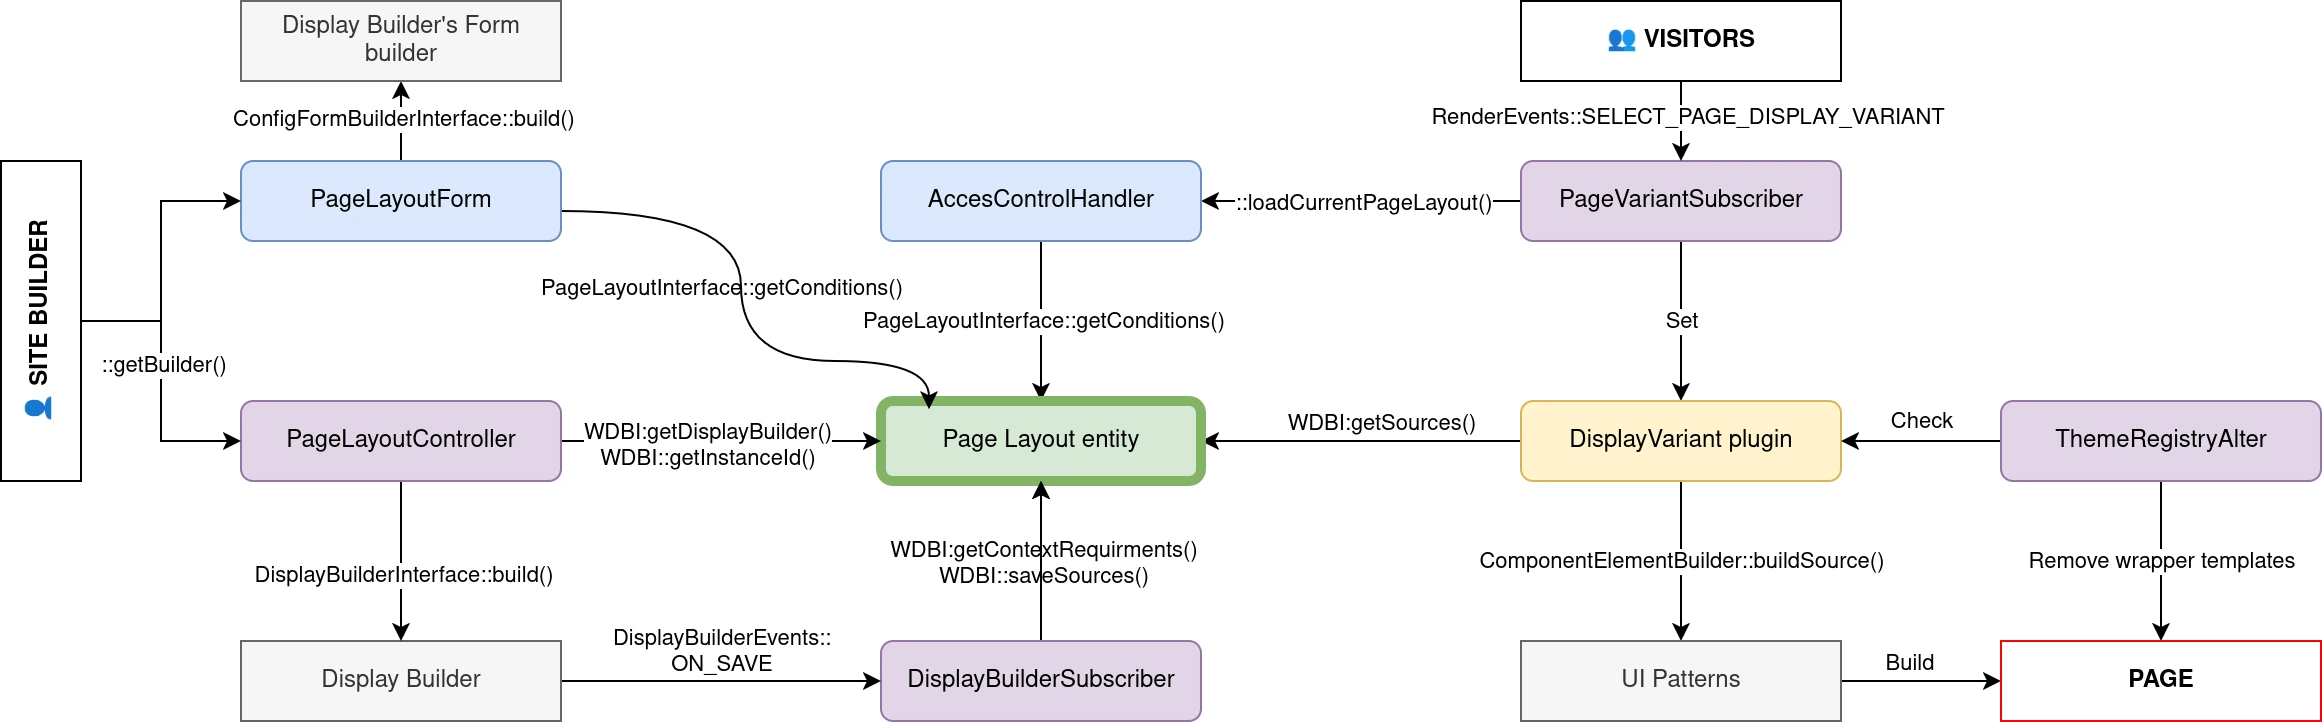
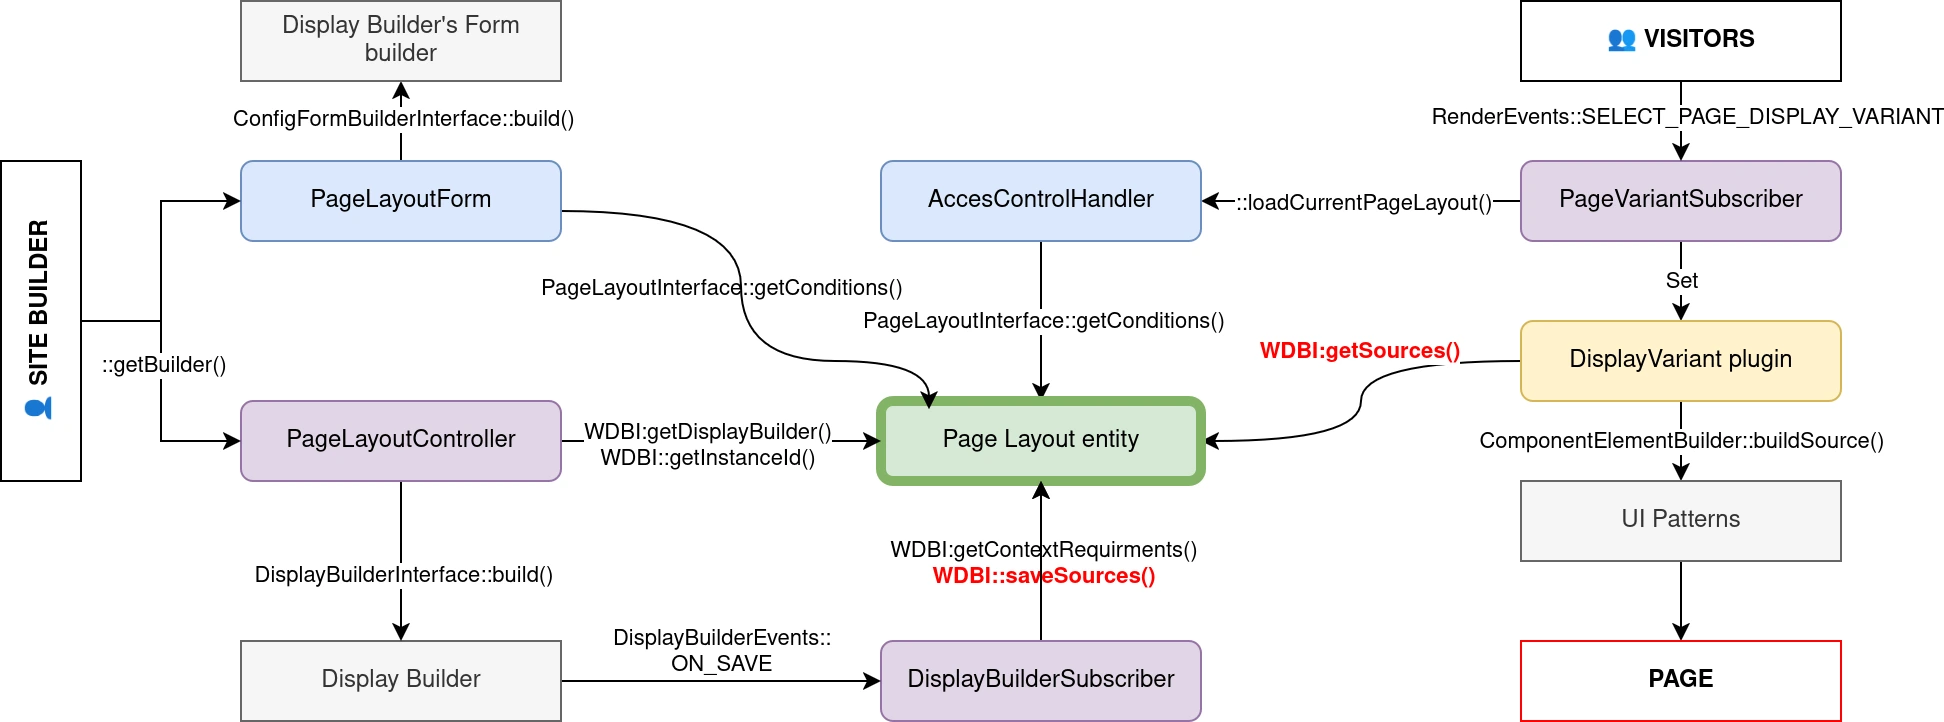
Issue #3538186 by pdureau: ThemeRegistryAlter must fallback on default templates

diff --git a/modules/display_builder_page_layout/src/Plugin/DisplayVariant/DisplayBuilderPageVariant.php b/modules/display_builder_page_layout/src/Plugin/DisplayVariant/DisplayBuilderPageVariant.php
@@ -9,8 +9,10 @@ use Drupal\Core\Display\Attribute\PageDisplayVariant;
 use Drupal\Core\Display\PageVariantInterface;
 use Drupal\Core\Display\VariantBase;
 use Drupal\Core\Entity\EntityTypeManagerInterface;
+use Drupal\Core\Extension\ExtensionList;
 use Drupal\Core\Plugin\ContainerFactoryPluginInterface;
 use Drupal\Core\StringTranslation\TranslatableMarkup;
+use Drupal\Core\Theme\Registry;
 use Drupal\display_builder\DisplayBuilderHelpers;
 use Drupal\display_builder\StateManager\StateManagerInterface;
 use Drupal\ui_patterns\Element\ComponentElementBuilder;
@@ -21,9 +23,9 @@ use Symfony\Component\DependencyInjection\ContainerInterface;
  */
 #[PageDisplayVariant(
   id: 'display_builder',
-  admin_label: new TranslatableMarkup('Display Builder')
+  admin_label: new TranslatableMarkup('Display Builder page')
 )]
-class DisplayBuilder extends VariantBase implements ContainerFactoryPluginInterface, PageVariantInterface {
+class DisplayBuilderPageVariant extends VariantBase implements ContainerFactoryPluginInterface, PageVariantInterface {
 
   private const SOURCE_CONTENT_ID = 'main_page_content';
 
@@ -31,17 +33,15 @@ class DisplayBuilder extends VariantBase implements ContainerFactoryPluginInterf
 
   /**
    * The render array representing the main content.
-   *
-   * @var array
    */
-  protected $mainContent;
+  protected array $mainContent;
 
   /**
-   * The page title: a string (plain title) or a render array (formatted title).
+   * The page title.
    *
-   * @var string|array
+   * Can be a string (plain title), Markup or a render array (formatted title).
    */
-  protected $title = '';
+  protected array|string|MarkupInterface $title;
 
   /**
    * The display builder state manager.
@@ -58,6 +58,16 @@ class DisplayBuilder extends VariantBase implements ContainerFactoryPluginInterf
    */
   protected EntityTypeManagerInterface $entityTypeManager;
 
+  /**
+   * The theme registry.
+   */
+  protected Registry $themeRegistry;
+
+  /**
+   * The list of modules.
+   */
+  protected ExtensionList $modules;
+
   public function __construct(
     array $configuration,
     $plugin_id,
@@ -65,11 +75,15 @@ class DisplayBuilder extends VariantBase implements ContainerFactoryPluginInterf
     StateManagerInterface $state_manager,
     ComponentElementBuilder $component_element_builder,
     EntityTypeManagerInterface $entity_type_manager,
+    Registry $theme_registry,
+    ExtensionList $modules,
   ) {
     parent::__construct($configuration, $plugin_id, $plugin_definition);
     $this->stateManager = $state_manager;
     $this->componentElementBuilder = $component_element_builder;
     $this->entityTypeManager = $entity_type_manager;
+    $this->themeRegistry = $theme_registry;
+    $this->modules = $modules;
   }
 
   /**
@@ -83,6 +97,8 @@ class DisplayBuilder extends VariantBase implements ContainerFactoryPluginInterf
       $container->get('display_builder.state_manager'),
       $container->get('ui_patterns.component_element_builder'),
       $container->get('entity_type.manager'),
+      $container->get('theme.registry'),
+      $container->get('extension.list.module'),
     );
   }
 
@@ -101,6 +117,25 @@ class DisplayBuilder extends VariantBase implements ContainerFactoryPluginInterf
       // @todo raise an error
       return [];
     }
+
+    // We alter the registry here instead of implementing
+    // hook_theme_registry_alter in order keep the alteration specific to each
+    // page.
+    $theme_registry = $this->themeRegistry->get();
+    $template_uri = $this->modules->getPath('display_builder_page_layout') . '/templates';
+    $runtime = $this->themeRegistry->getRuntime();
+    $theme_registry['page']['path'] = $template_uri;
+    $runtime->set('page', $theme_registry['page']);
+    $theme_registry['region']['path'] = $template_uri;
+    $runtime->set('region', $theme_registry['region']);
+
+    // Also skip the related template suggestions.
+    foreach (\array_keys($theme_registry) as $renderable_id) {
+      if (\str_starts_with($renderable_id, 'page__') || \str_starts_with($renderable_id, 'region__')) {
+        $runtime->delete($renderable_id);
+      }
+    }
+
     $sources = $page_layout->getSources();
     $instance_id = $page_layout->getInstanceId();
     $this->replaceTitleAndContent($sources, $this->title, $this->mainContent);
@@ -120,7 +155,7 @@ class DisplayBuilder extends VariantBase implements ContainerFactoryPluginInterf
           '#weight' => -1000,
           '#include_fallback' => TRUE,
         ],
-        'display_builder' => [
+        'display_builder_content' => [
           'data' => $data,
           '#weight' => -800,
         ],

diff --git a/modules/display_builder_devel/src/Controller/DisplayBuilderDevelController.php b/modules/display_builder_devel/src/Controller/DisplayBuilderDevelController.php
@@ -14,7 +14,7 @@ use Drupal\display_builder_devel\Helper\DisplayBuilderDevelHelper;
 use Drupal\display_builder_devel\MockEntity;
 use Drupal\display_builder_entity_view\Entity\DisplayBuilderEntityViewDisplay;
 use Drupal\display_builder_page_layout\Entity\PageLayout;
-use Drupal\display_builder_views\Plugin\views\display_extender\DisplayBuilder as DisplayExtender;
+use Drupal\display_builder_views\Plugin\views\display_extender\DisplayBuilderDisplayExtender;
 use Symfony\Component\HttpFoundation\RedirectResponse;
 
 /**
@@ -157,8 +157,8 @@ class DisplayBuilderDevelController extends ControllerBase {
     $url = MockEntity::getUrlFromInstanceId($builder_id);
 
     // Simple switch to url based on context.
-    if (\class_exists('Drupal\display_builder_views\Plugin\views\display_extender\DisplayBuilder') && $this->stateManager->hasSaveContextsRequirement($builder_id, DisplayExtender::getContextRequirement())) {
-      $url = DisplayExtender::getUrlFromInstanceId($builder_id);
+    if (\class_exists('Drupal\display_builder_views\Plugin\views\display_extender\DisplayBuilderDisplayExtender') && $this->stateManager->hasSaveContextsRequirement($builder_id, DisplayBuilderDisplayExtender::getContextRequirement())) {
+      $url = DisplayBuilderDisplayExtender::getUrlFromInstanceId($builder_id);
       $type = $this->t('Views');
     }
     elseif (\class_exists('Drupal\display_builder_page_layout\Entity\PageLayout') && $this->stateManager->hasSaveContextsRequirement($builder_id, PageLayout::getContextRequirement())) {

diff --git a/modules/display_builder_views/src/EventSubscriber/DisplayBuilderSubscriber.php b/modules/display_builder_views/src/EventSubscriber/DisplayBuilderSubscriber.php
@@ -7,7 +7,7 @@ namespace Drupal\display_builder_views\EventSubscriber;
 use Drupal\display_builder\Event\DisplayBuilderEvent;
 use Drupal\display_builder\Event\DisplayBuilderEvents;
 use Drupal\display_builder\StateManager\StateManagerInterface;
-use Drupal\display_builder_views\Plugin\views\display_extender\DisplayBuilder;
+use Drupal\display_builder_views\Plugin\views\display_extender\DisplayBuilderDisplayExtender;
 use Symfony\Component\EventDispatcher\EventSubscriberInterface;
 
 /**
@@ -38,7 +38,7 @@ class DisplayBuilderSubscriber implements EventSubscriberInterface {
     $builder_id = $event->getBuilderId();
     $contexts = $event->getData();
 
-    if (!$this->stateManager->hasSaveContextsRequirement($builder_id, DisplayBuilder::getContextRequirement(), $contexts)) {
+    if (!$this->stateManager->hasSaveContextsRequirement($builder_id, DisplayBuilderDisplayExtender::getContextRequirement(), $contexts)) {
       return;
     }
 

diff --git a/modules/display_builder_page_layout/src/EventSubscriber/PageVariantSubscriber.php b/modules/display_builder_page_layout/src/EventSubscriber/PageVariantSubscriber.php
@@ -31,7 +31,6 @@ class PageVariantSubscriber implements EventSubscriberInterface {
    * {@inheritdoc}
    */
   public static function getSubscribedEvents(): array {
-    // @todo check if we need to be sooner.
     return [
       RenderEvents::SELECT_PAGE_DISPLAY_VARIANT => [
         ['onSelectPageDisplayVariant', -100],
@@ -49,7 +48,9 @@ class PageVariantSubscriber implements EventSubscriberInterface {
     $route = $event->getRouteMatch()->getRouteObject();
     $options = $route->getOptions();
 
-    // In admin pages, we want the page.html.twig  from the admin theme.
+    // In admin pages, we want the page.html.twig from the admin theme.
+    // For now we don't build pages for Admin routes, bit this will be possible
+    // in the future.
     if ($options['_admin_route'] ?? FALSE) {
       return;
     }

diff --git a/modules/display_builder_views/src/Controller/ViewsManagementController.php b/modules/display_builder_views/src/Controller/ViewsManagementController.php
@@ -9,7 +9,7 @@ use Drupal\Core\Render\Markup;
 use Drupal\Core\StringTranslation\TranslatableMarkup;
 use Drupal\Core\Url;
 use Drupal\display_builder\StateManager\StateManagerInterface;
-use Drupal\display_builder_views\Plugin\views\display_extender\DisplayBuilder as DisplayExtender;
+use Drupal\display_builder_views\Plugin\views\display_extender\DisplayBuilderDisplayExtender;
 
 /**
  * Returns responses for Display Builder ui routes.
@@ -121,7 +121,7 @@ class ViewsManagementController extends ControllerBase {
     return [
       'manage' => [
         'title' => $this->t('Build display'),
-        'url' => DisplayExtender::getUrlFromInstanceId($builder_id),
+        'url' => DisplayBuilderDisplayExtender::getUrlFromInstanceId($builder_id),
       ],
       'delete' => [
         'title' => $this->t('Delete'),

diff --git a/modules/display_builder_page_layout/src/Entity/PageLayout.php b/modules/display_builder_page_layout/src/Entity/PageLayout.php
@@ -201,7 +201,7 @@ final class PageLayout extends ConfigEntityBase implements PageLayoutInterface {
 
     if (empty($data)) {
       // Fallback to a fixture mimicking the standard page layout.
-      $data = DisplayBuilderHelpers::getFixtureDataFromExtension('display_builder_page_layout', '', 'page_layout');
+      $data = DisplayBuilderHelpers::getFixtureDataFromExtension('display_builder_page_layout', '', 'default_page_layout');
     }
     $this->stateManager()->create($instance_id, $this->display_builder, $data, $contexts);
   }

diff --git a/modules/display_builder_views/src/Plugin/views/display_extender/DisplayBuilderDisplayExtender.php b/modules/display_builder_views/src/Plugin/views/display_extender/DisplayBuilderDisplayExtender.php
@@ -28,7 +28,7 @@ use Symfony\Component\DependencyInjection\ContainerInterface;
   help: new TranslatableMarkup('Use display builder as output for this view.'),
   no_ui: FALSE,
 )]
-class DisplayBuilder extends DisplayExtenderPluginBase implements WithDisplayBuilderInterface {
+class DisplayBuilderDisplayExtender extends DisplayExtenderPluginBase implements WithDisplayBuilderInterface {
 
   /**
    * The display builder state manager.
